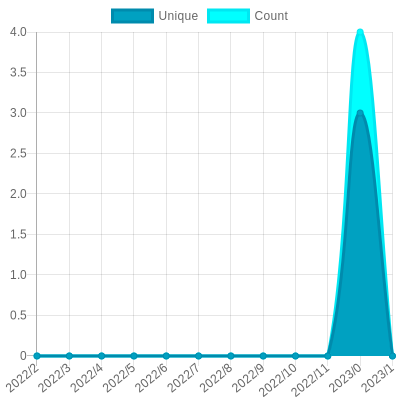
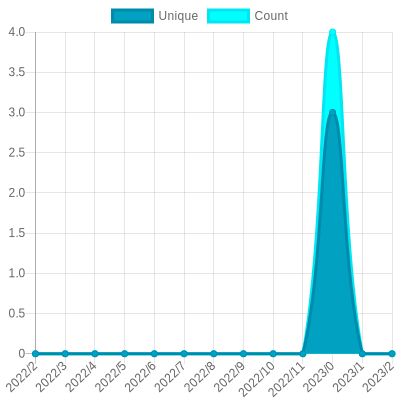
Update views

diff --git a/README.md b/README.md
@@ -26,7 +26,7 @@ The project created and maintained by [gayanvoice](https://github.com/gayanvoice
 			</a>
 		</td>
 		<td>
-			2022/2/27 1:00 AM UTC
+			2022/2/28 12:59 AM UTC
 		</td>
 		<td>
 			3
@@ -37,7 +37,7 @@ The project created and maintained by [gayanvoice](https://github.com/gayanvoice
 	</tr>
 </table>
 
-<small><i>Last updated on 2022/3/1 6:17 PM UTC</i></small>
+<small><i>Last updated on 2022/3/2 1:03 AM UTC</i></small>
 
 ## ✂Copy and 📋 Paste
 ### Total Views Badge

diff --git a/readme/400177016/year.md b/readme/400177016/year.md
@@ -20,6 +20,17 @@
 	</tr>
 	<tr>
 		<td>
+			<code>2022/3/1</code>
+		</td>
+		<td>
+			<code>0</code>
+		</td>
+		<td>
+			<code>0</code>
+		</td>
+	</tr>
+	<tr>
+		<td>
 			<code>2022/2/1</code>
 		</td>
 		<td>
@@ -153,7 +164,7 @@
 </table>
 
 </details>
-<small><i>Last updated on 2022/3/1 6:17 PM UTC</i></small>
+<small><i>Last updated on 2022/3/2 1:03 AM UTC</i></small>
 
 ## ✂Copy and 📋 Paste
 ### SVG Badge
